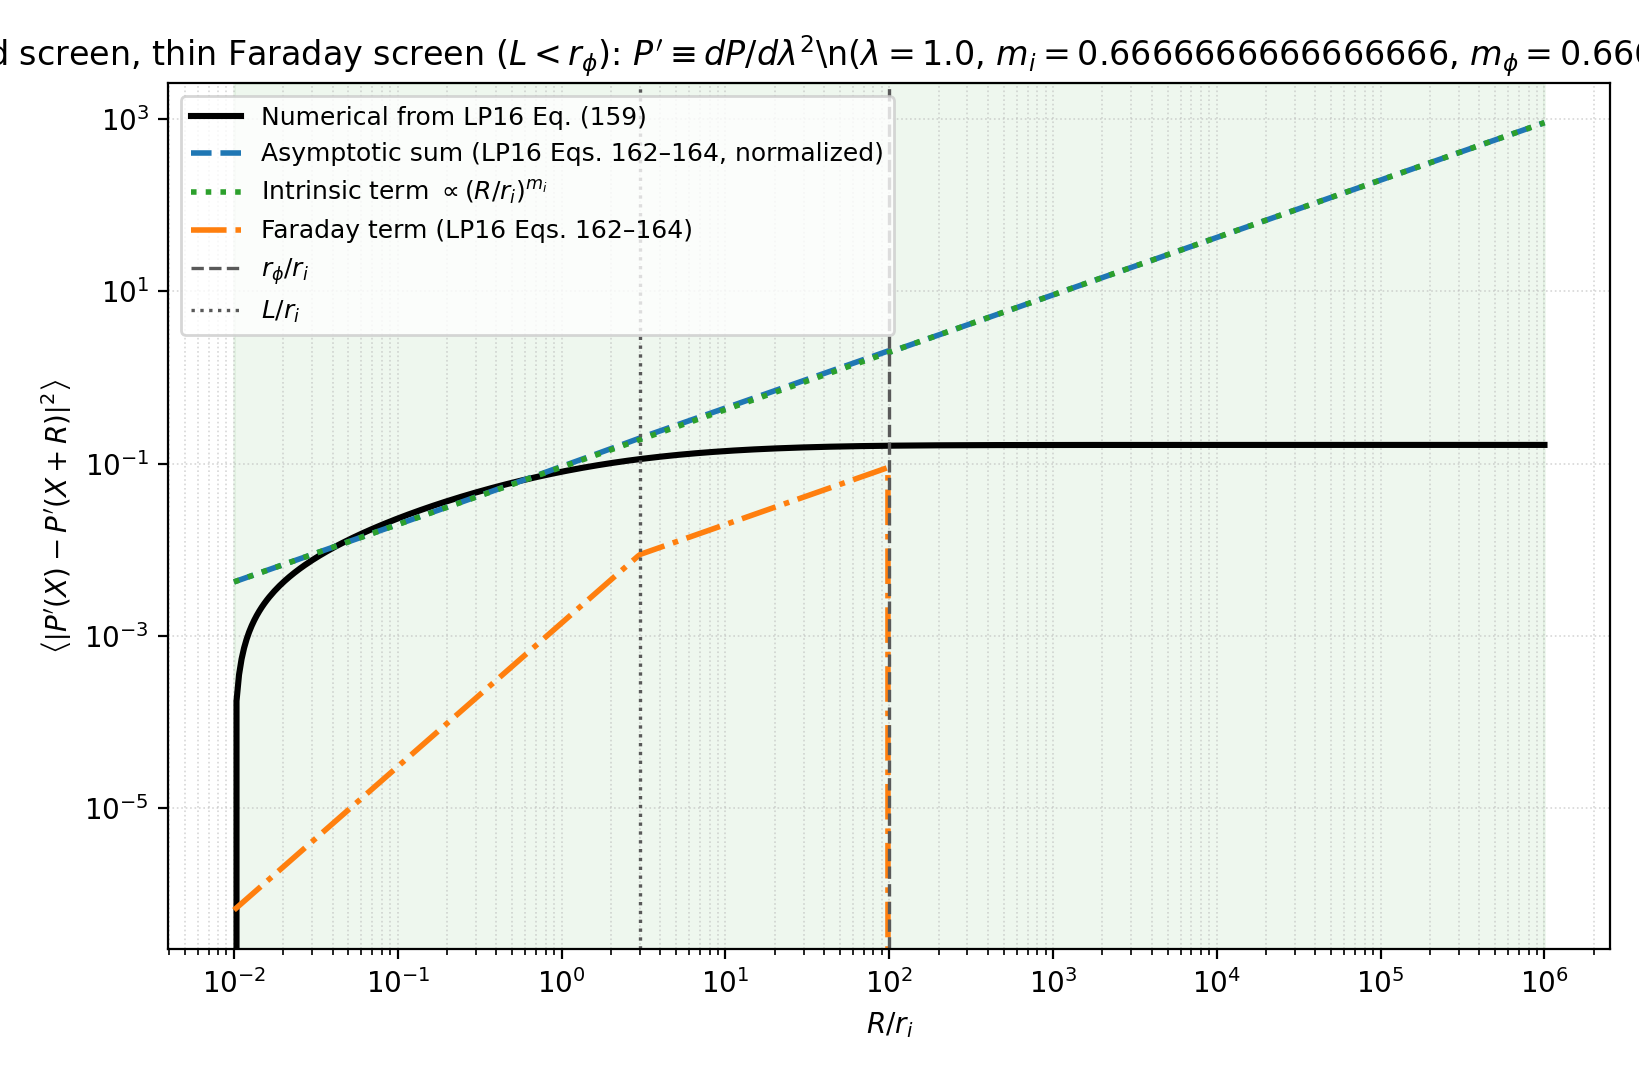
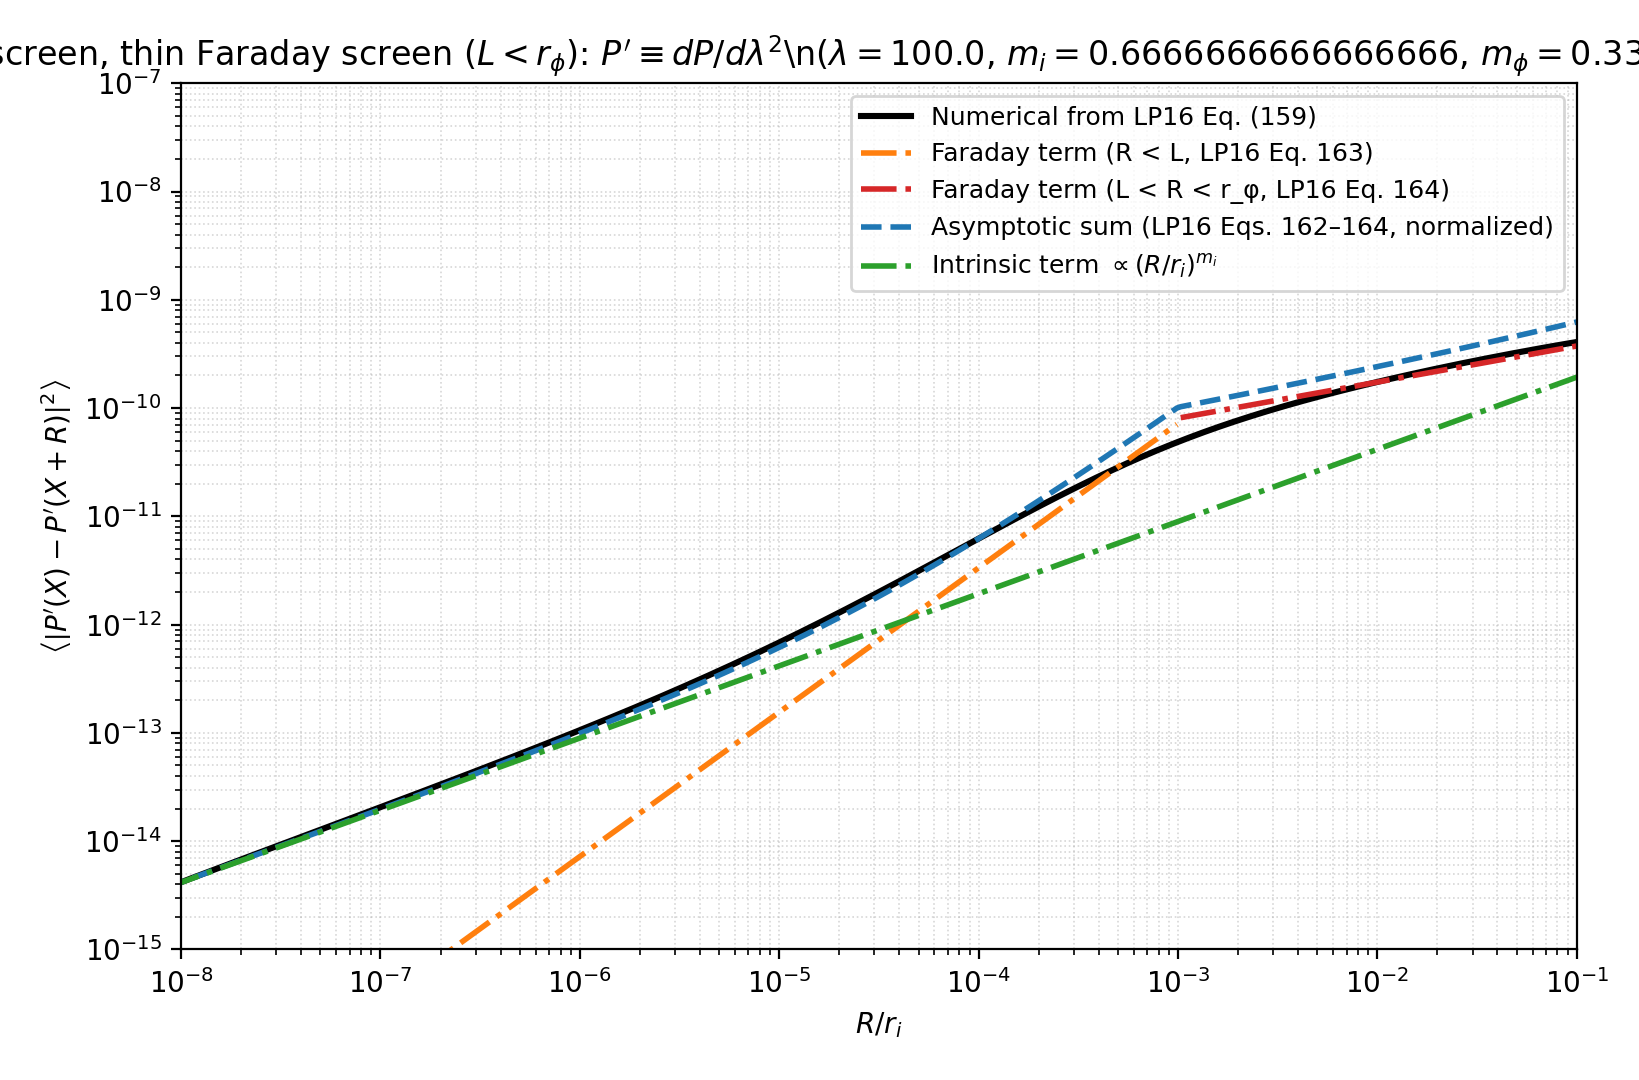
Updated thin screen correlation range

diff --git a/compare_measures/directional_spectrum/theor_prediction_director/dominated_regimes.py b/compare_measures/directional_spectrum/theor_prediction_director/dominated_regimes.py
@@ -58,18 +58,19 @@ def asymptotic_terms_derivative(screen_type, R, r_i, m_i, L, r_phi, m_phi):
     if screen_type == "thick":
         pref = (r_phi / L) ** (1.0 - mtil)
         term_far = pref * (R / r_phi) ** (1.0 + mtil)
-        return term_int, term_far
+        return term_int, term_far, None
 
     if screen_type == "thin":
-        term_far = np.full_like(R, np.nan, dtype=float)
+        term_far1 = np.full_like(R, np.nan, dtype=float)
+        term_far2 = np.full_like(R, np.nan, dtype=float)
 
         m1 = R < L
         m2 = (R >= L) & (R < r_phi)
 
-        term_far[m1] = (r_phi / L) * (R[m1] / r_phi) ** (1.0 + mtil)
-        term_far[m2] = (R[m2] / r_phi) ** (mtil)
+        term_far1[m1] = (r_phi / L) * (R[m1] / r_phi) ** (1.0 + mtil)
+        term_far2[m2] = (R[m2] / r_phi) ** (mtil)
 
-        return term_int, term_far
+        return term_int, term_far1, term_far2
 
     raise ValueError("screen_type must be 'thick' or 'thin'")
 
@@ -107,7 +108,7 @@ def plot_derivative_measure(screen_type, params, outfile):
     )
     SF_num = SF_from_corr(xiPp)
 
-    term_int, term_far = asymptotic_terms_derivative(screen_type, R, r_i, m_i, L, r_phi, m_phi)
+    term_int, term_far, term_far2 = asymptotic_terms_derivative(screen_type, R, r_i, m_i, L, r_phi, m_phi)
 
     if screen_type == "thick":
         R_match = min(0.2 * r_phi, 5.0 * r_i)
@@ -116,34 +117,77 @@ def plot_derivative_measure(screen_type, params, outfile):
         R_match = min(0.2 * L, 5.0 * r_i)
         title = r"Separated screen, thin Faraday screen ($L<r_\phi$): $P'\equiv dP/d\lambda^2$"
 
-    term_far_safe = np.where(np.isfinite(term_far), term_far, 0.0)
-    SF_asym_raw = term_int + term_far_safe
-
     Rmin_rel = params["Rmin"]
     Rmax_rel = params["Rmax"]
 
-    Rmax_abs = Rmax_rel * r_i *0.01
+    Rmax_abs = Rmax_rel * r_i * 0.01
     Rmin_100 = 100.0 * Rmin_rel * r_i
     
     Rmax_abs = max(R[0], min(R[-1], Rmax_abs))
     Rmin_100 = max(R[0], min(R[-1], Rmin_100))
-    
-    SF_asym, fac_asym = normalize_asymptotic_to_numeric(R, SF_num, SF_asym_raw, Rmin_100)
-    SF_far, fac_far = normalize_asymptotic_to_numeric(R, SF_num, term_far_safe, Rmax_abs)
-    SF_int = term_int * fac_asym
 
     fig, ax = plt.subplots(figsize=(8.2, 5.4))
     ax.loglog(R[1:] / r_i, SF_num[1:], color="k", lw=2.2, label=r"Numerical from LP16 Eq. (159)")
 
-    ax.loglog(R[1:] / r_i, SF_asym[1:], ls="--", lw=2.0, color="C0",
-              label=r"Asymptotic sum (LP16 Eqs. 162–164, normalized)")
-    ax.loglog(R[1:] / r_i, SF_int[1:], ls=":", lw=2.0, color="C2",
-              label=r"Intrinsic term $\propto (R/r_i)^{m_i}$")
-    ax.loglog(R[1:] / r_i, SF_far[1:], ls="-.", lw=2.0, color="C1",
-              label=r"Faraday term (LP16 Eqs. 162–164)")
+    if screen_type == "thick":
+        term_far_safe = np.where(np.isfinite(term_far), term_far, 0.0)
+        SF_asym_raw = term_int + term_far_safe
+        
+        SF_asym, fac_asym = normalize_asymptotic_to_numeric(R, SF_num, SF_asym_raw, Rmin_100)
+        SF_far, fac_far = normalize_asymptotic_to_numeric(R, SF_num, term_far_safe, Rmax_abs)
+        SF_int = term_int * fac_asym
+
+        ax.loglog(R[1:] / r_i, SF_asym[1:], ls="--", lw=2.0, color="C0",
+                  label=r"Asymptotic sum (LP16 Eqs. 162–164, normalized)")
+        ax.loglog(R[1:] / r_i, SF_int[1:], ls=":", lw=2.0, color="C2",
+                  label=r"Intrinsic term $\propto (R/r_i)^{m_i}$")
+        ax.loglog(R[1:] / r_i, SF_far[1:], ls="-.", lw=2.0, color="C1",
+                  label=r"Faraday term (LP16 Eqs. 162–164)")
+    else:
+        term_far1_safe = np.where(np.isfinite(term_far), term_far, 0.0)
+        term_far2_safe = np.where(np.isfinite(term_far2), term_far2, 0.0)
+        SF_asym_raw = term_int + term_far1_safe + term_far2_safe
+        
+        mtil = min(m_phi, 1.0)
+        R_norm_far1 = min(0.5 * L, Rmax_abs) if L > 0 else Rmax_abs
+        R_norm_far2 = Rmax_abs
+        R_norm_far1 = max(R[0], min(R[-1], R_norm_far1))
+        R_norm_far2 = max(R[0], min(R[-1], R_norm_far2))
+        
+        SF_asym, fac_asym = normalize_asymptotic_to_numeric(R, SF_num, SF_asym_raw, Rmin_100)
+        SF_int = term_int * fac_asym
+
+        idx_far1 = np.argmin(np.abs(R - R_norm_far1))
+        idx_far2 = np.argmin(np.abs(R - R_norm_far2))
+        
+        SF_norm_far1 = SF_num[idx_far1] if idx_far1 < len(SF_num) else SF_num[-1]
+        SF_norm_far2 = SF_num[idx_far2] if idx_far2 < len(SF_num) else SF_num[-1]
+
+        R_plot = R[1:] / r_i
+        mask_far1 = R[1:] < L
+        mask_far2 = (R[1:] >= L) & (R[1:] < r_phi)
+        R_far1_abs = R[1:][mask_far1]
+        R_far2_abs = R[1:][mask_far2]
+        
+        if len(R_far1_abs) > 0:
+            slope_far1 = 1.0 + mtil
+            SF_far1_line = SF_norm_far1 * (R_far1_abs / R_norm_far1) ** slope_far1
+            ax.loglog(R_far1_abs / r_i, SF_far1_line, ls="-.", lw=2.0, color="C1",
+                      label=r"Faraday term (R < L, LP16 Eq. 163)")
+        
+        if len(R_far2_abs) > 0:
+            slope_far2 = mtil
+            SF_far2_line = SF_norm_far2 * (R_far2_abs / R_norm_far2) ** slope_far2
+            ax.loglog(R_far2_abs / r_i, SF_far2_line, ls="-.", lw=2.0, color="C3",
+                      label=r"Faraday term (L < R < r_φ, LP16 Eq. 164)")
+
+        ax.loglog(R[1:] / r_i, SF_asym[1:], ls="--", lw=2.0, color="C0",
+                  label=r"Asymptotic sum (LP16 Eqs. 162–164, normalized)")
+        ax.loglog(R[1:] / r_i, SF_int[1:], ls="-.", lw=2.0, color="C2",
+                  label=r"Intrinsic term $\propto (R/r_i)^{m_i}$")
 
     ax.set_xlim(params["Rmin"]*100, params["Rmax"]*0.1)
-    ax.set_ylim(1e-12, 1e-5)
+    ax.set_ylim(1e-15, 1e-7)
 
     ax.set_title(title + rf"\n($\lambda={lam}$, $m_i={m_i}$, $m_\phi={m_phi}$)")
     ax.set_xlabel(r"$R/r_i$")
@@ -173,20 +217,20 @@ def main():
 
     params_thin = dict(
         Xi0=1.0,
-        r_i=1.0,
+        r_i=1000.0,
         m_i=2/3,
-        L=3.0,
-        r_phi=100.0,
-        m_phi=2/3,
-        sigma_phi2=1e-2,
-        lam=1.0,
-        Rmin=1e-2,
-        Rmax=1e6,
+        r_phi=900.0,
+        L=1.0,
+        m_phi=1/3,
+        sigma_phi2=5e-10,
+        lam=100.0,
+        Rmin=1e-10,
+        Rmax=1e0,
         NR=520,
         Nu=7000,
     )
 
     plot_derivative_measure("thick", params_thick, "LP16_sep_derivativeSF_thick.png")
-
+    plot_derivative_measure("thin", params_thin, "LP16_sep_derivativeSF_thin.png")
 if __name__ == "__main__":
     main()
